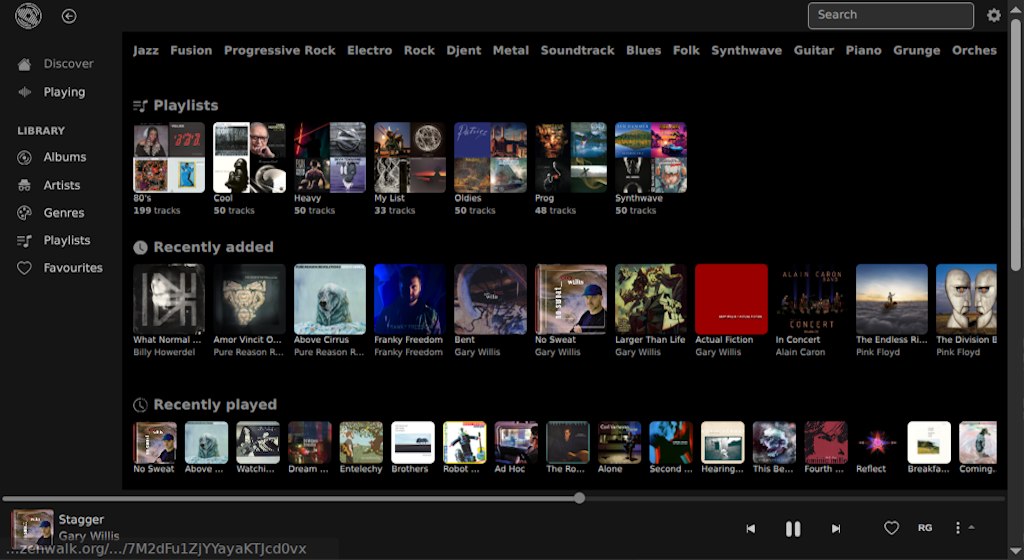
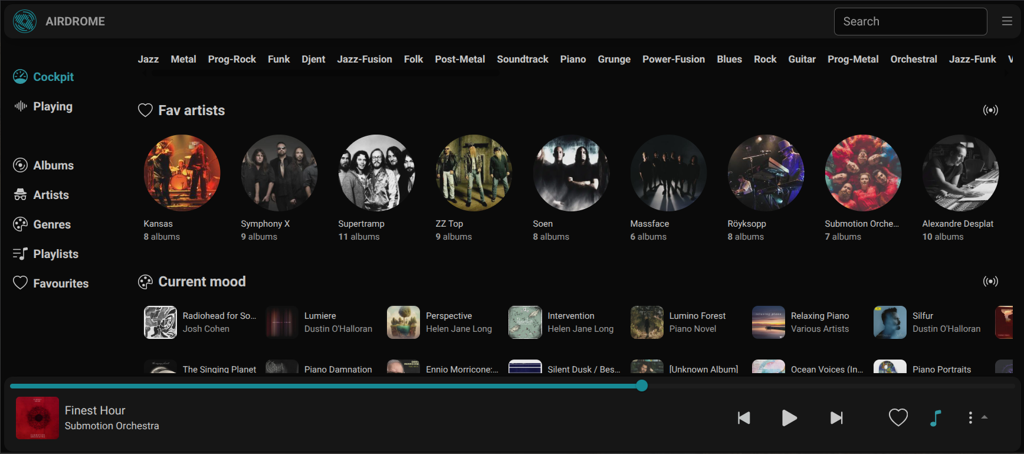
Rework cache strategy

diff --git a/public/service-worker.js b/public/service-worker.js
@@ -2,25 +2,28 @@
 
 const APP_BASE = '/'
 
-// Cache names
-const SHELL_CACHE = 'shell-cache-v1'
+// ─── Cache names ──────────────────────────────────────────────────────────────
+// Bump SHELL_CACHE on every build so stale shells are
+// replaced automatically on next SW activation.
+const SHELL_CACHE = `shell-cache-${__BUILD_VERSION__}`
 const RUNTIME_CACHE = 'runtime-cache-v1'
-const IMAGE_CACHE = 'images-cache-v1'
-const AUDIO_CACHE = 'audio-cache-v1'
+const IMAGE_CACHE   = 'images-cache-v1'
+const AUDIO_CACHE   = 'audio-cache-v1'
 
 // Limits
 const MAX_IMAGE_ENTRIES = 10000
 
-// App shell
-const APP_SHELL = [
-  `${APP_BASE}`,
-  `${APP_BASE}index.html`,
-  `${APP_BASE}manifest.webmanifest`,
-  `${APP_BASE}icon.png`,
-]
+// ─── App shell ────────────────────────────────────────────────────────────────
+// self.__WB_MANIFEST is replaced at build time by vite-plugin-pwa with the
+// full list of hashed assets emitted by Vite (JS, CSS, HTML, icons, etc.).
+// Do NOT edit this manually — control what is included via globPatterns in
+// the VitePWA() config in vite.config.mjs.
+//
+// The ?? [] fallback keeps the SW valid during local dev (no injection step).
+const WB_MANIFEST = self.__WB_MANIFEST ?? []
 
 /* -------------------------------------------------- */
-/* INSTALL */
+/* INSTALL                                            */
 /* -------------------------------------------------- */
 
 self.addEventListener('install', event => {
@@ -28,14 +31,24 @@ self.addEventListener('install', event => {
   self.skipWaiting()
 
   event.waitUntil(
-    caches.open(SHELL_CACHE)
-      .then(cache => cache.addAll(APP_SHELL))
+    caches.open(SHELL_CACHE).then(cache =>
+      // FIX: use allSettled so a single 404 does not abort the whole install.
+      // Each URL is added individually; failures are logged but do not prevent
+      // the SW from activating and serving whatever was cached successfully.
+      Promise.allSettled(
+        WB_MANIFEST.map(({ url }) =>
+          cache.add(url).catch(err =>
+            console.warn(`[SW] Failed to precache: ${url}`, err)
+          )
+        )
+      )
+    )
   )
 
 })
 
 /* -------------------------------------------------- */
-/* ACTIVATE */
+/* ACTIVATE                                           */
 /* -------------------------------------------------- */
 
 self.addEventListener('activate', event => {
@@ -48,7 +61,7 @@ self.addEventListener('activate', event => {
       SHELL_CACHE,
       RUNTIME_CACHE,
       IMAGE_CACHE,
-      AUDIO_CACHE
+      AUDIO_CACHE,
     ]
 
     await Promise.all(
@@ -64,7 +77,7 @@ self.addEventListener('activate', event => {
 })
 
 /* -------------------------------------------------- */
-/* FETCH */
+/* FETCH                                              */
 /* -------------------------------------------------- */
 
 self.addEventListener('fetch', event => {
@@ -77,7 +90,13 @@ self.addEventListener('fetch', event => {
   /* SPA navigation */
 
   if (request.mode === 'navigate') {
-    event.respondWith(networkFirst(request, SHELL_CACHE))
+    // FIX: always fall back to the cached index.html when the network is
+    // unavailable so the SPA can boot and handle routing offline.
+    event.respondWith(
+      networkFirst(request, SHELL_CACHE).catch(() =>
+        caches.match(`${APP_BASE}index.html`)
+      )
+    )
     return
   }
 
@@ -96,28 +115,28 @@ self.addEventListener('fetch', event => {
   const isCoverArt =
     url.pathname.includes('/rest/getCoverArt')
 
-  const isImage =
-    request.destination === 'image' ||
-    /\.(png|jpg|jpeg|webp|gif|svg)$/i.test(url.pathname)
+  // FIX: restrict the image strategy to cover-art API calls and cross-origin
+  // images only.  Same-origin image assets (bundled SVGs, PNGs, etc.) fall
+  // through to the static-asset handler below so they are served from
+  // SHELL_CACHE where they were precached at install time.
+  const isExternalImage =
+    url.origin !== self.location.origin &&
+    (
+      request.destination === 'image' ||
+      /\.(png|jpg|jpeg|webp|gif|svg)$/i.test(url.pathname)
+    )
 
-  if (isCoverArt || isImage) {
+  if (isCoverArt || isExternalImage) {
     event.respondWith(imageStrategy(request))
     return
   }
 
   /* LIBRARY */
 
-  const isGenres =
-    url.pathname.includes('/rest/getGenre')
-
-  const isArtists =
-    url.pathname.includes('/rest/getArtist')
-
-  const isAlbums =
-    url.pathname.includes('/rest/getAlbum')
-
-  const isPlaylist =
-    url.pathname.includes('/rest/getPlaylist')
+  const isGenres   = url.pathname.includes('/rest/getGenre')
+  const isArtists  = url.pathname.includes('/rest/getArtist')
+  const isAlbums   = url.pathname.includes('/rest/getAlbum')
+  const isPlaylist = url.pathname.includes('/rest/getPlaylist')
 
   if (isGenres || isArtists || isAlbums || isPlaylist) {
     event.respondWith(networkFirst(request, SHELL_CACHE))
@@ -138,8 +157,8 @@ self.addEventListener('fetch', event => {
 })
 
 /* -------------------------------------------------- */
-/* AUDIO STRATEGY */
-/* Network first / Cache fallback */
+/* AUDIO STRATEGY                                     */
+/* Network first / Cache fallback                     */
 /* -------------------------------------------------- */
 
 async function audioStrategy(request) {
@@ -180,8 +199,8 @@ async function audioStrategy(request) {
 }
 
 /* -------------------------------------------------- */
-/* IMAGE STRATEGY */
-/* Cache first + background update */
+/* IMAGE STRATEGY                                     */
+/* Cache first + background update                    */
 /* -------------------------------------------------- */
 
 async function imageStrategy(request) {
@@ -202,15 +221,9 @@ async function imageStrategy(request) {
 
         if (response && response.ok) {
 
-          await cache.put(
-            cacheRequest,
-            response.clone()
-          )
+          await cache.put(cacheRequest, response.clone())
 
-          trimCache(
-            IMAGE_CACHE,
-            MAX_IMAGE_ENTRIES
-          )
+          trimCache(IMAGE_CACHE, MAX_IMAGE_ENTRIES)
 
         }
 
@@ -226,15 +239,9 @@ async function imageStrategy(request) {
 
     if (response && response.ok) {
 
-      await cache.put(
-        cacheRequest,
-        response.clone()
-      )
+      await cache.put(cacheRequest, response.clone())
 
-      trimCache(
-        IMAGE_CACHE,
-        MAX_IMAGE_ENTRIES
-      )
+      trimCache(IMAGE_CACHE, MAX_IMAGE_ENTRIES)
 
     }
 
@@ -242,16 +249,14 @@ async function imageStrategy(request) {
 
   } catch {
 
-    return new Response('', {
-      status: 504
-    })
+    return new Response('', { status: 504 })
 
   }
 
 }
 
 /* -------------------------------------------------- */
-/* NETWORK FIRST */
+/* NETWORK FIRST                                      */
 /* -------------------------------------------------- */
 
 async function networkFirst(request, cacheName) {
@@ -280,7 +285,7 @@ async function networkFirst(request, cacheName) {
 }
 
 /* -------------------------------------------------- */
-/* CACHE FIRST */
+/* CACHE FIRST                                        */
 /* -------------------------------------------------- */
 
 async function cacheFirst(request, cacheName) {
@@ -302,7 +307,7 @@ async function cacheFirst(request, cacheName) {
 }
 
 /* -------------------------------------------------- */
-/* HELPERS */
+/* HELPERS                                            */
 /* -------------------------------------------------- */
 
 function isStaticAsset(path) {
@@ -316,24 +321,13 @@ function normalizeImageRequest(request) {
   // Normalize Subsonic/Navidrome cover art URLs
   if (url.pathname.includes('/rest/getCoverArt')) {
 
-    const normalized = new URL(
-      url.origin + url.pathname
-    )
+    const normalized = new URL(url.origin + url.pathname)
 
     // Stable cache identity
-    normalized.searchParams.set(
-      'id',
-      url.searchParams.get('id') || ''
-    )
+    normalized.searchParams.set('id',   url.searchParams.get('id')   || '')
+    normalized.searchParams.set('size', url.searchParams.get('size') || '300')
 
-    normalized.searchParams.set(
-      'size',
-      url.searchParams.get('size') || '300'
-    )
-
-    return new Request(normalized.toString(), {
-      method: 'GET'
-    })
+    return new Request(normalized.toString(), { method: 'GET' })
 
   }
 
@@ -344,7 +338,7 @@ function normalizeImageRequest(request) {
 async function trimCache(cacheName, maxEntries) {
 
   const cache = await caches.open(cacheName)
-  const keys = await cache.keys()
+  const keys  = await cache.keys()
 
   if (keys.length <= maxEntries) return
 
@@ -357,7 +351,7 @@ async function trimCache(cacheName, maxEntries) {
 }
 
 /* -------------------------------------------------- */
-/* MESSAGES */
+/* MESSAGES                                           */
 /* -------------------------------------------------- */
 
 self.addEventListener('message', event => {